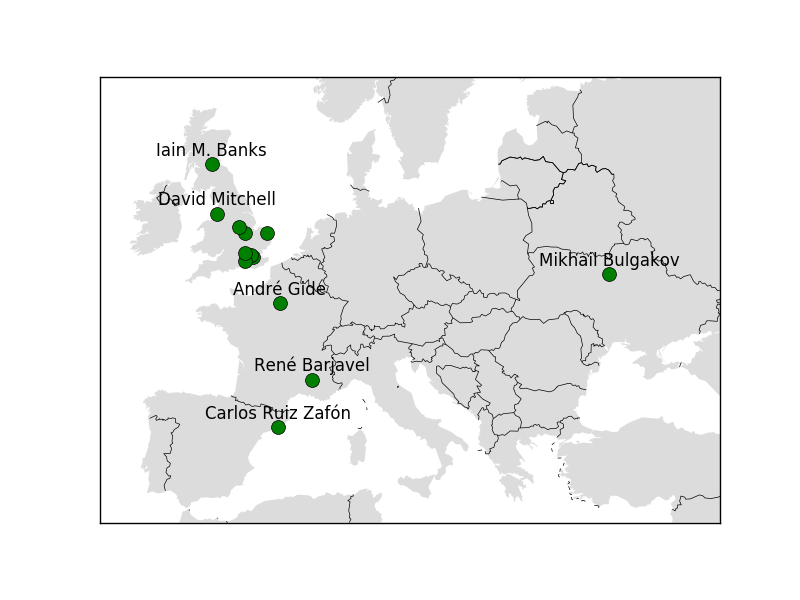
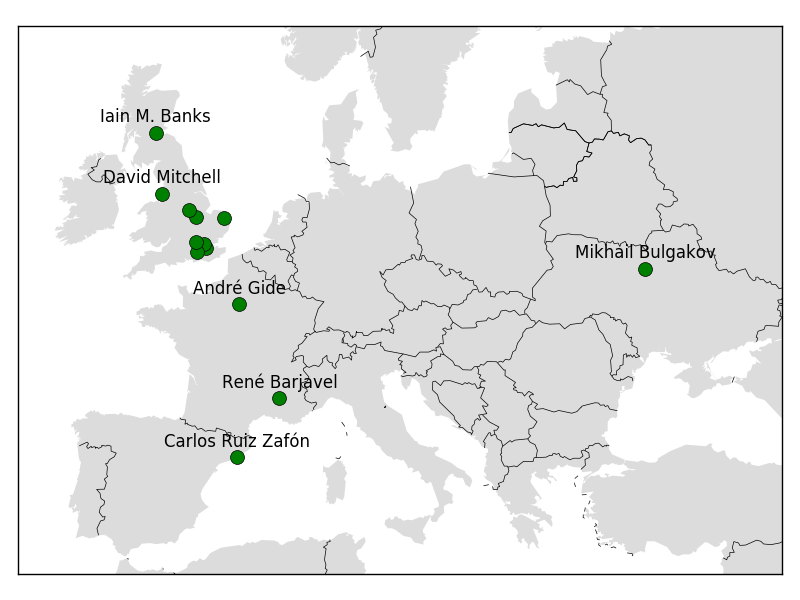
updates to maps

diff --git a/author_map.py b/author_map.py
@@ -15,13 +15,6 @@ with open('data/author_info.pkl', 'r') as f:
 # Parse the hometown with the Google API
 data = list()
 for i, row in df_author.iterrows():
-    try:
-        print('{} {}'.format(row['author'].encode('utf-8').decode('ascii', errors='ignore'),
-                            row['hometown'].encode('utf-8').decode('ascii', errors='ignore')))
-    except AttributeError:
-        print('{} {}'.format(row['author'].encode('utf-8').decode('ascii', errors='ignore'),
-                             row['hometown']))
-
     if row['hometown'] is None:
         status = None
     else:
@@ -55,8 +48,11 @@ x, y = themap(full_data['lon'].values, full_data['lat'].values)
 themap.plot(x, y, 'o', color='Green', markersize=6)
 for label, xpt, ypt, lat, lon in zip(full_data['author'], x, y, full_data['lat'], full_data['lon']):
     if lat < 20 or lon > 100:
-        plt.text(xpt, ypt+100000, label, ha='center', va='bottom')
-
+        if label == 'Fuyumi Ono':
+            plt.text(xpt, ypt-150000, label, ha='center', va='top')
+        else:
+            plt.text(xpt, ypt+100000, label, ha='center', va='bottom')
+plt.tight_layout()
 plt.savefig('figures/fullmap.png')
 
 
@@ -86,6 +82,7 @@ for label, xpt, ypt, lat in zip(full_data['author'], x, y, full_data['lat']):
             plt.text(xpt, ypt+100000, label, ha='right')
         else:
             plt.text(xpt, ypt+100000, label, ha='center')
+plt.tight_layout()
 plt.savefig('figures/usmap.png')
 
 
@@ -112,4 +109,5 @@ themap.plot(x, y, 'o', color='Green', markersize=10)
 for label, xpt, ypt, lat in zip(full_data['author'], x, y, full_data['lat']):
     if lat < 51 or lat > 53:
         plt.text(xpt, ypt+80000, label, ha='center')
+plt.tight_layout()
 plt.savefig('figures/europemap.png')
